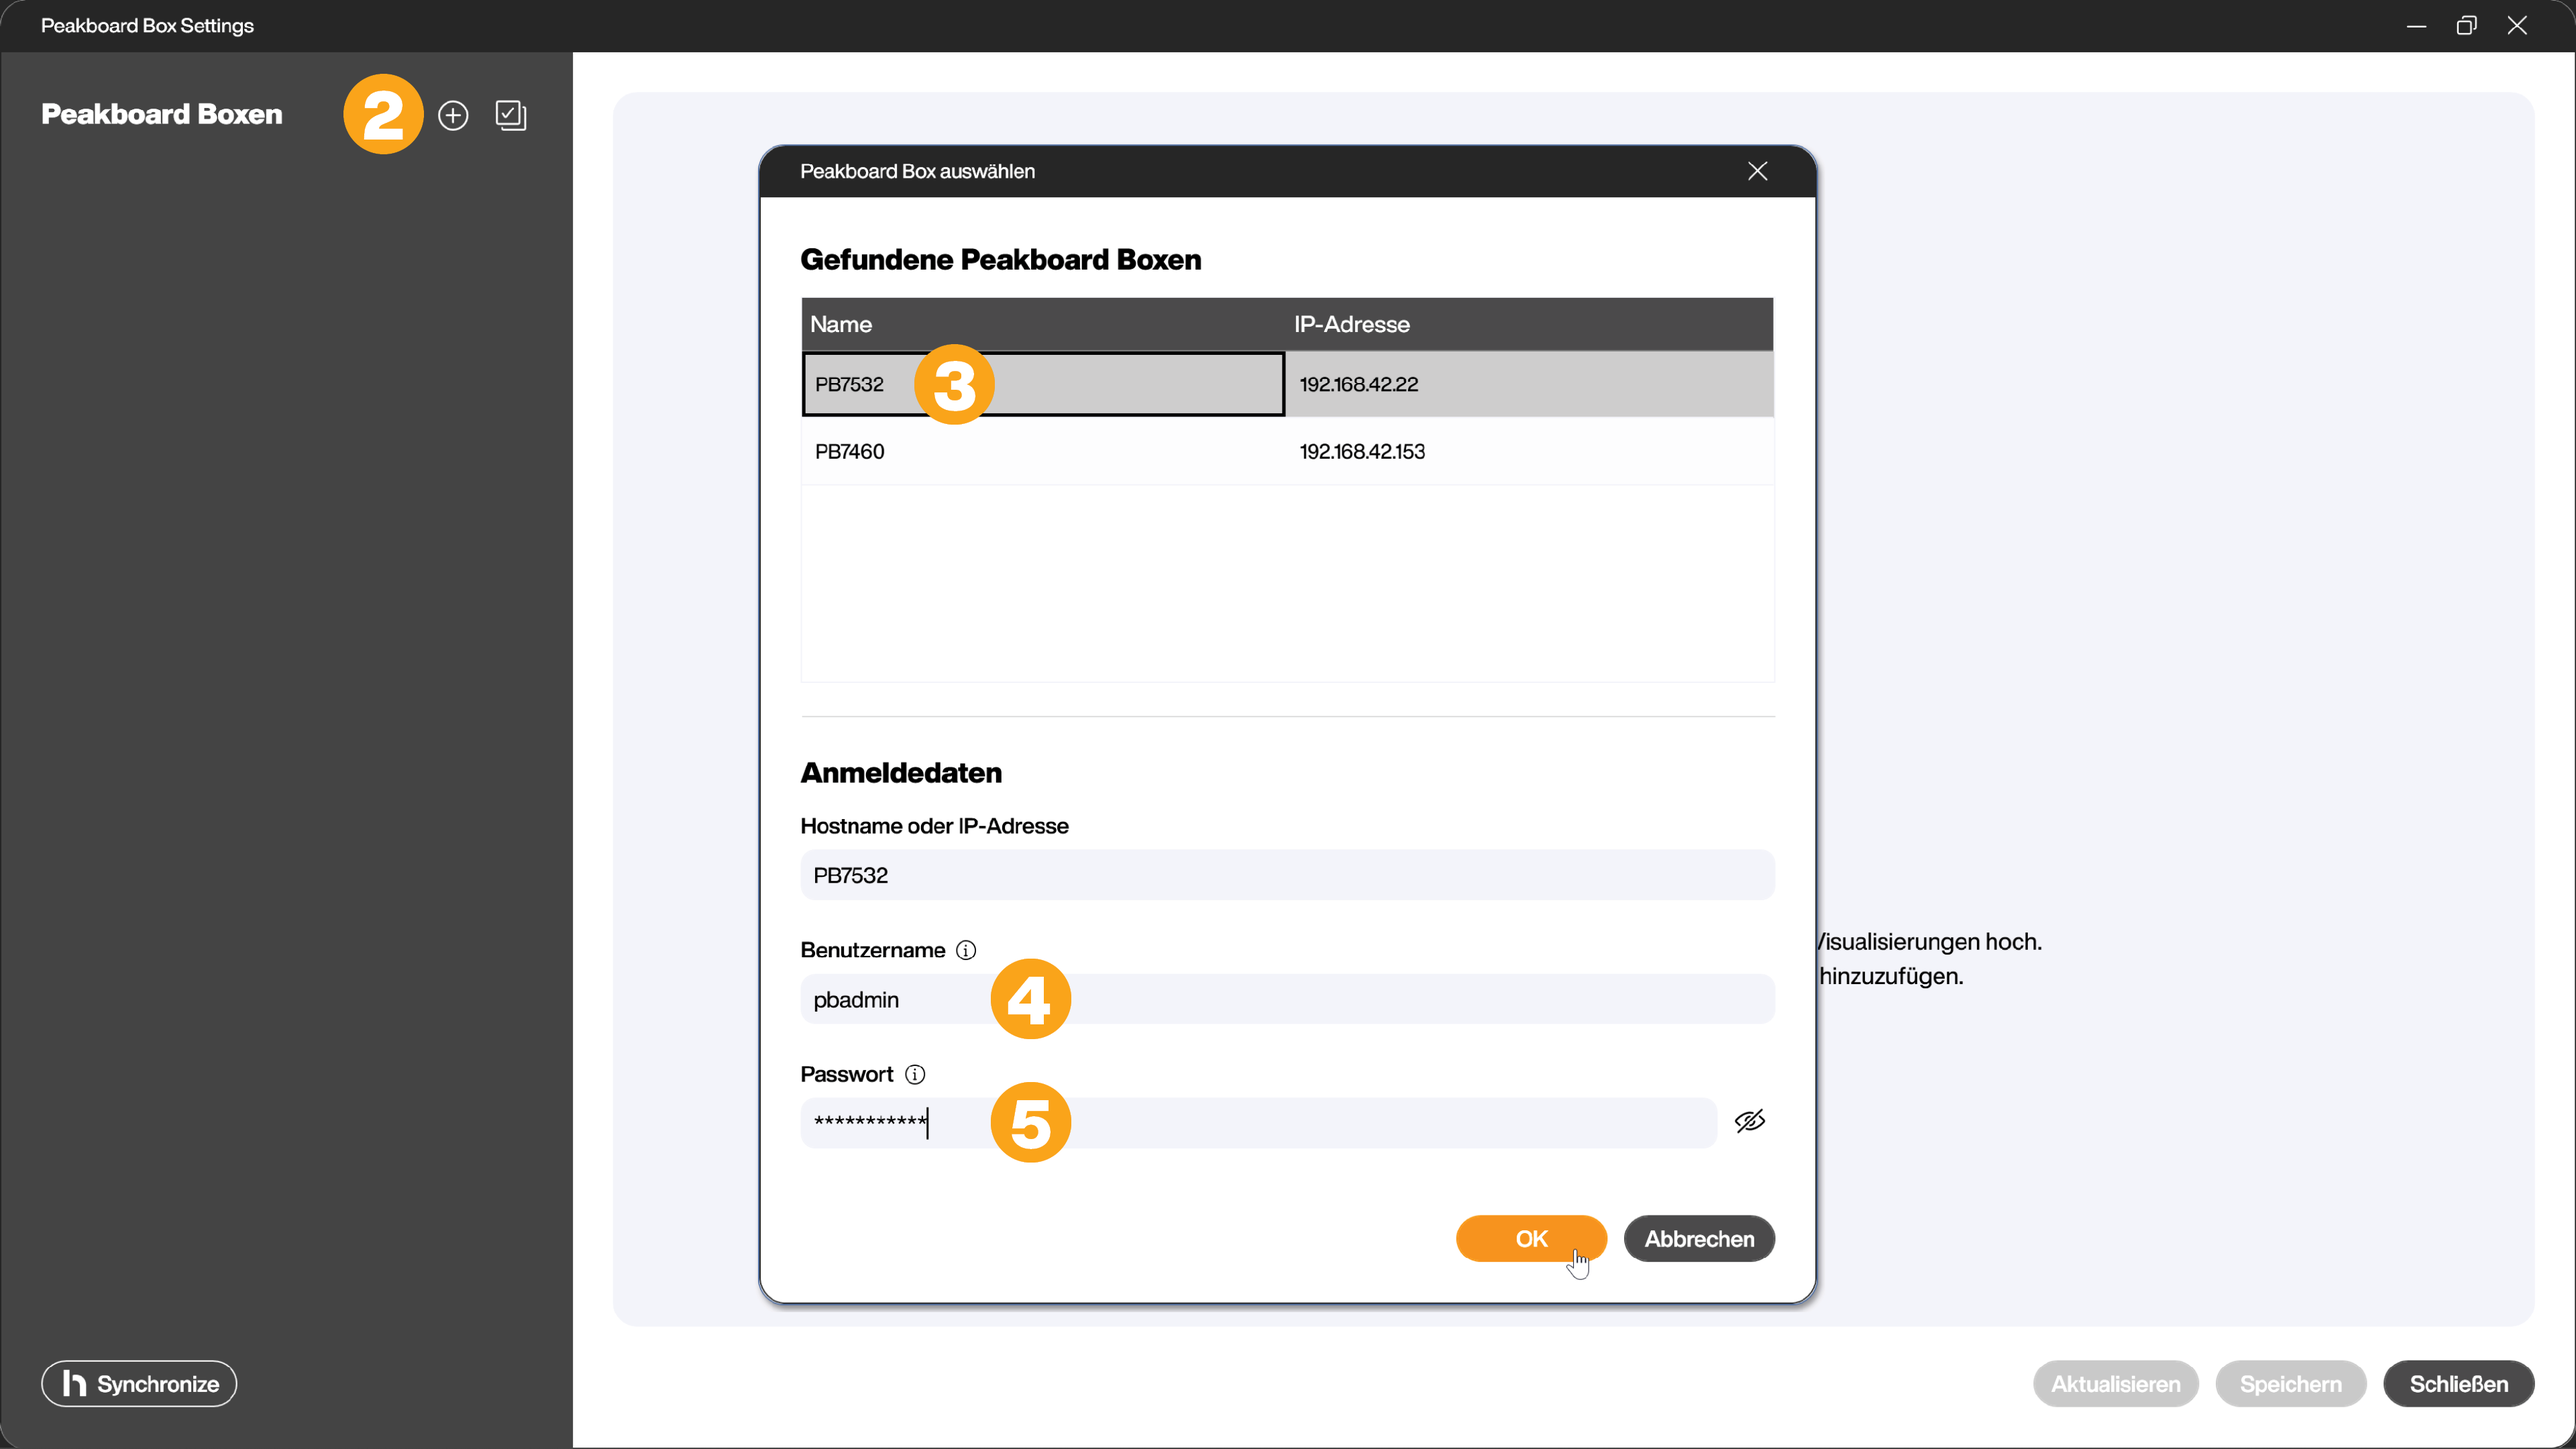
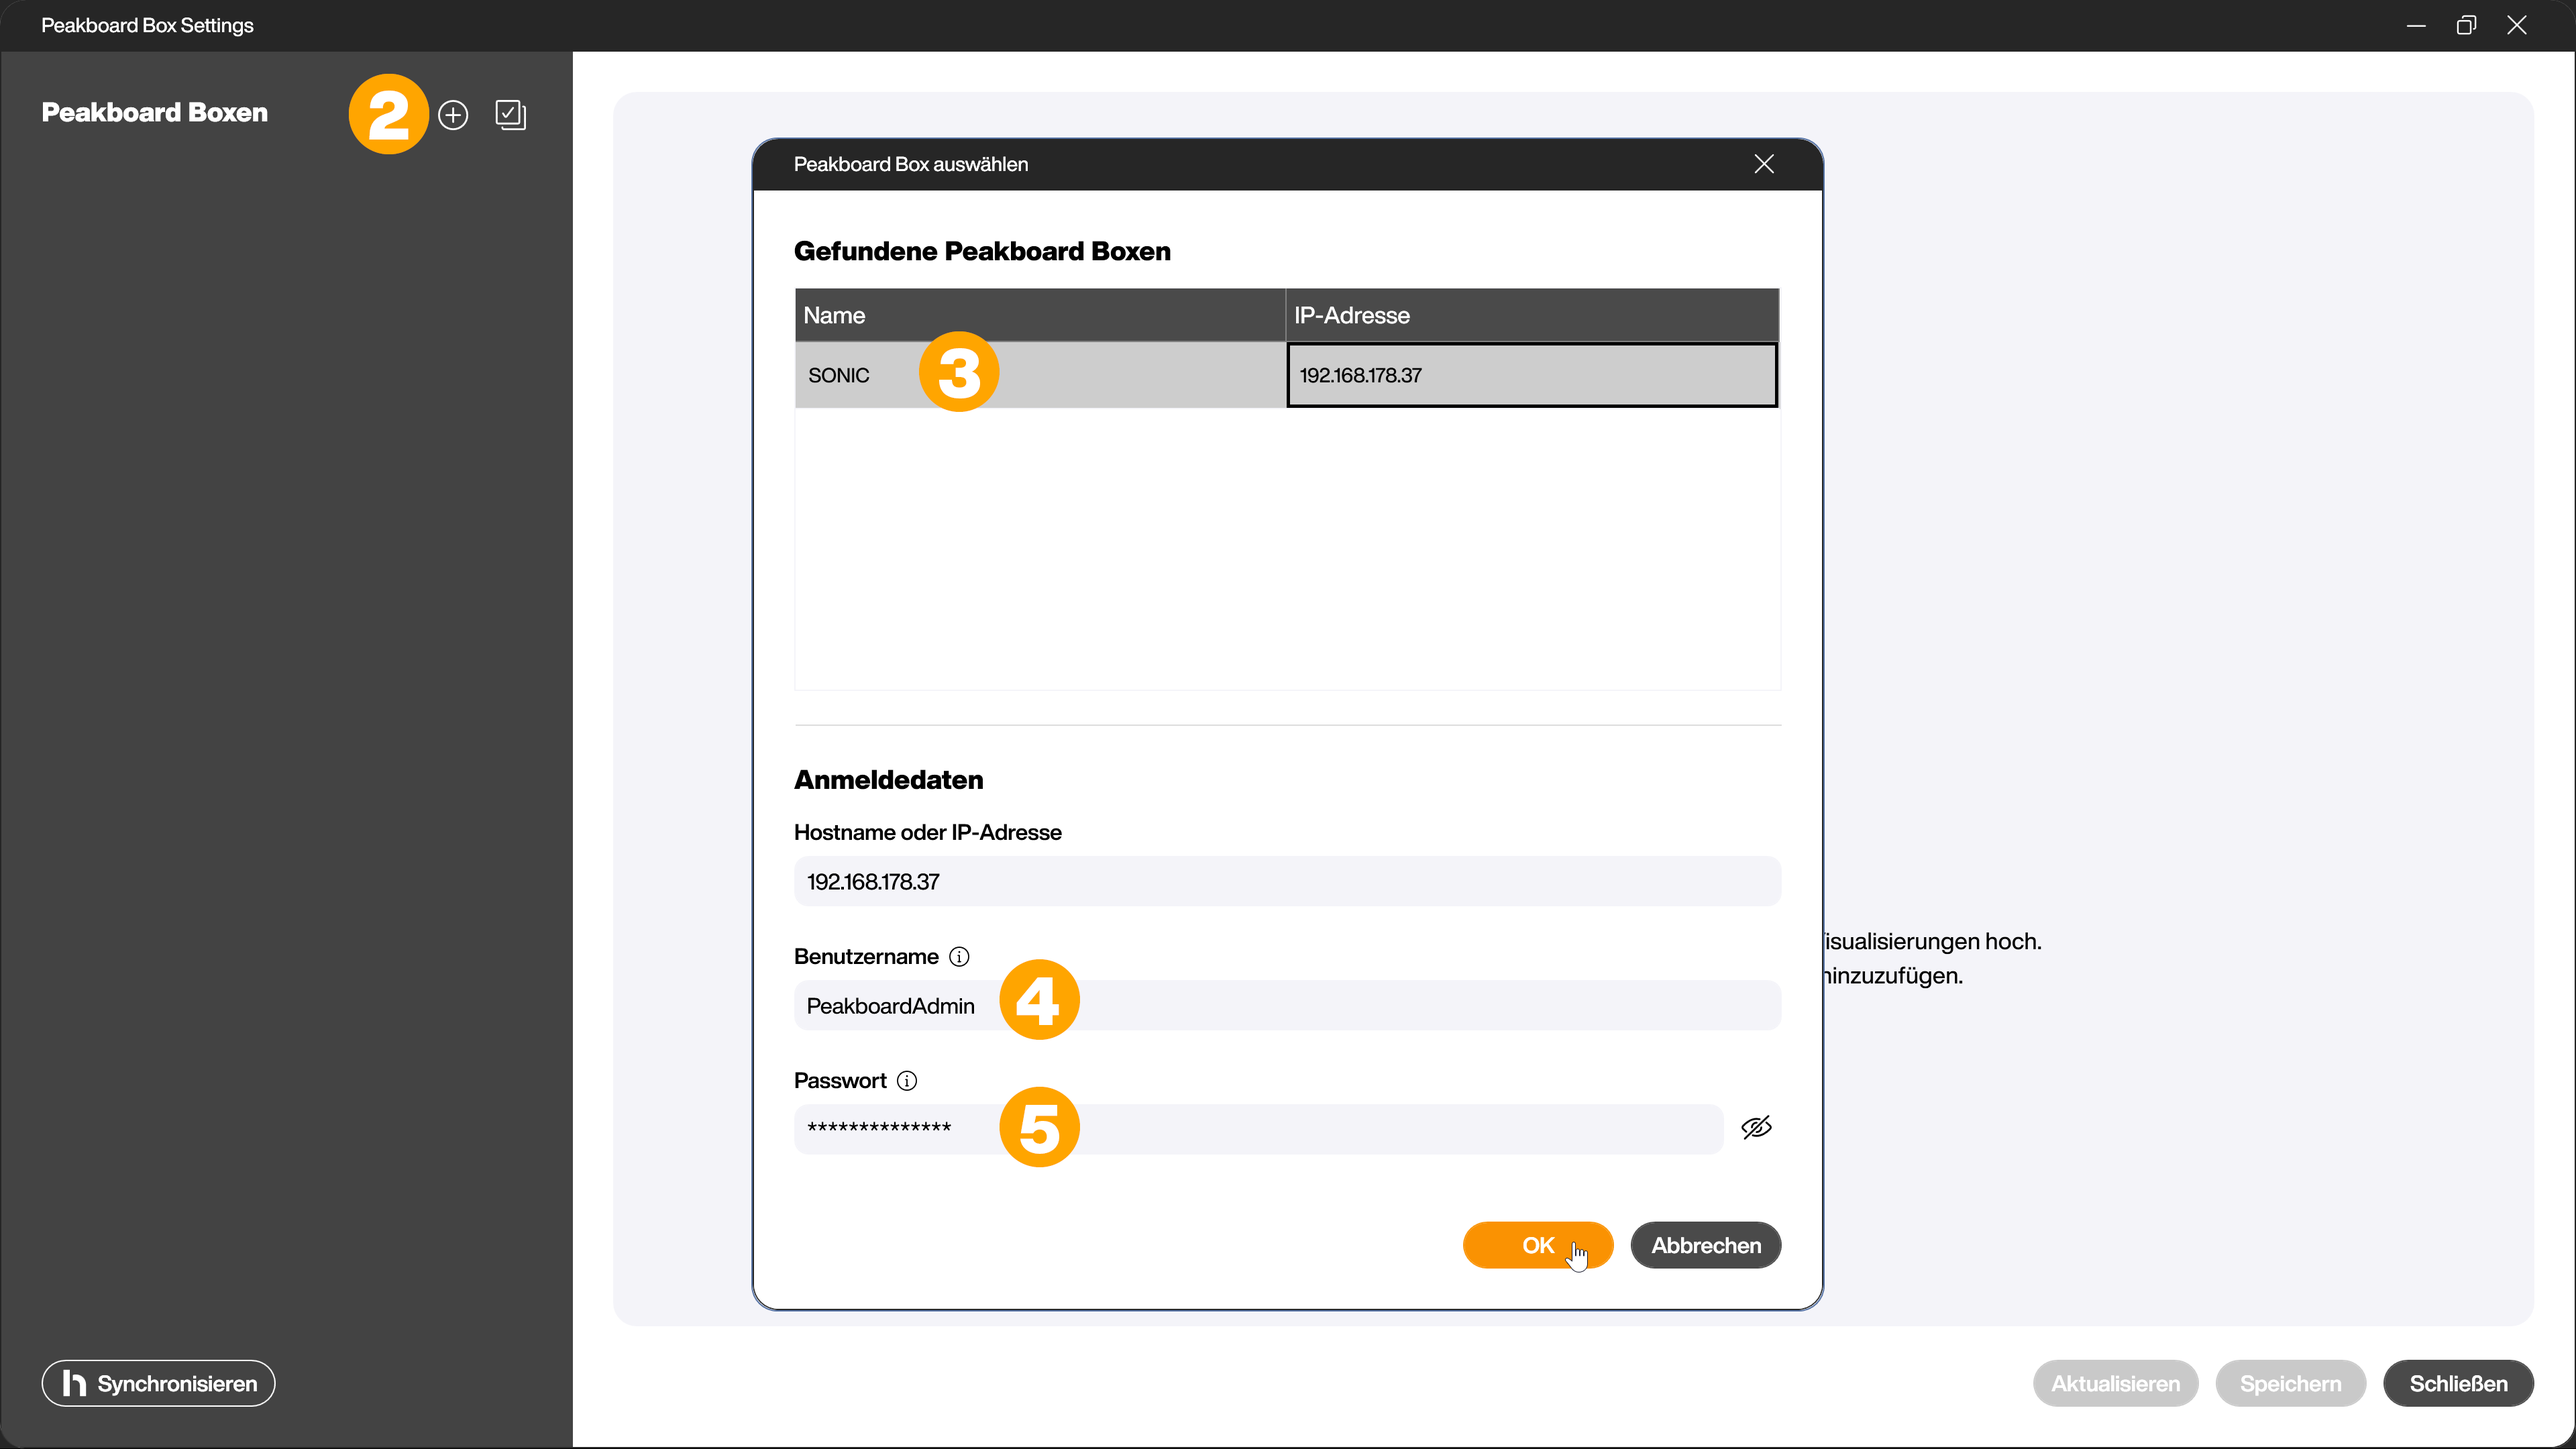
Added BYOD and fixed screenshot de/en

diff --git a/content/_administration/de-hinzufuegen.md b/content/_administration/de-hinzufuegen.md
@@ -1,8 +1,8 @@
 ---
 layout: article
-title: Hinzufügen einer Peakboard Box zum Peakboard Designer
-menu_title: Hinzufügen einer Peakboard Box zum Peakboard Designer
-description: Hinzufügen einer Peakboard Box zum Peakboard Designer
+title: Hinzufügen einer Peakboard Box oder Peakboard BYOD zum Peakboard Designer
+menu_title: Hinzufügen einer Peakboard Box oder Peakboard BYOD zum Peakboard Designer
+description: Hinzufügen einer Peakboard Box oder Peakboard BYOD zum Peakboard Designer
 lang: de
 weight: 700
 ref: admin-700
@@ -13,21 +13,21 @@ redirect_from:
 
 ---
 
-Um eine Peakboard Box zum Peakboard Designer hinzuzufügen, klicke in der Menüleiste auf den Peakboard Box-Button (1). Daraufhin öffnen sich die Peakboard Box Settings.
+Um eine Peakboard Box oder Peakboard BYOD zum Peakboard Designer hinzuzufügen, klicke in der Menüleiste auf den Peakboard Box-Button (1). Daraufhin öffnen sich die Peakboard Box Einstellungen.
 
 ![Peakboard Box Button](/assets/images/admin/add/de_add-box-01.png)
 
-Hier hast du mehrere Optionen um Peakboard Boxen hinzuzufügen.
+Hier hast du mehrere Optionen um Peakboard Boxen oder Peakboard BYOD hinzuzufügen.
 Klicke in den Peakboard Box Einstellungen auf den Hinzufügen-Button (2), um den Auswahldialog zu öffnen.
 
 ![Peakboard Box Auswahl](/assets/images/admin/add/de_add-box-02.png)
 
-In diesem Dialog werden alle im Netzwerk befindlichen Peakboard Boxen angezeigt.
-Markiere die gewünschte Peakboard Box durch einen Klick (3) und fülle die Felder Benutzername (4) und Passwort (5) aus.
-Nach dem Bestätigen mit OK wird deine Peakboard Box dem Peakboard Designer hinzugefügt.
+In diesem Dialog werden alle im Netzwerk befindlichen Peakboard Boxen und Peakboard BYOD angezeigt.
+Markiere die gewünschte Peakboard Box oder Peakboard BYOD durch einen Klick (3) und fülle die Felder Benutzername (4) und Passwort (5) aus.
+Nach dem Bestätigen mit OK wird deine Peakboard Box oder Peakboard BYOD dem Peakboard Designer hinzugefügt.
 
-Alternativ kannst du mit einem Klick auf den Peakboard Hub Synchronize-Button (6) deine Boxen vom Peakboard Hub hinzufügen.
+Alternativ kannst du mit einem Klick auf den Peakboard Hub Synchronize-Button (6) deine Peakboard Boxen und Peakboard BYOD vom Peakboard Hub hinzufügen.
 
 ![Peakboard Hub Synchronisation](/assets/images/admin/add/de_add-box-03.png)
 
-Voraussetzung hierfür ist ein eingerichteter [Peakboard Hub](/hub/de-hub_installation.html), auf dem bereits Boxen hinzugefügt wurden.
+Voraussetzung hierfür ist ein eingerichteter [Peakboard Hub](/hub/de-hub_installation.html), auf dem bereits Peakboard Boxen oder Peakboard BYOD hinzugefügt wurden.

diff --git a/content/_administration/en-adding.md b/content/_administration/en-adding.md
@@ -1,8 +1,8 @@
 ---
 layout: article
-title: Adding a Peakboard Box to the Peakboard Designer
-menu_title: Adding a Peakboard Box to the Peakboard Designer
-description: Adding a Peakboard Box to the Peakboard Designer
+title: Adding a Peakboard Box or Peakboard BYOD to the Peakboard Designer
+menu_title: Adding a Peakboard Box or Peakboard BYOD to the Peakboard Designer
+description: Adding a Peakboard Box or Peakboard BYOD to the Peakboard Designer
 lang: en
 weight: 700
 ref: admin-700
@@ -12,21 +12,21 @@ redirect_from:
   - /administration/PB%202.x%20Box/en-adding.html
 ---
 
-To add a Peakboard Box to the Peakboard Designer, click on the Peakboard Box button (1) in the menu bar. This will open the Peakboard Box settings.
+To add a Peakboard Box or Peakboard BYOD to the Peakboard Designer, click on the Peakboard Box button (1) in the menu bar. This will open the Peakboard Box settings.
 
 ![Peakboard Box button](/assets/images/admin/add/en_add-box-01.png)
 
-Here you have several options to add Peakboard Boxes.
+Here you have several options to add Peakboard Boxes or Peakboard BYOD.
 Click on the add button (2) in the Peakboard Box Settings to open the selection dialog.
 
 ![Peakboard Box selection](/assets/images/admin/add/en_add-box-02.png)
 
-In this dialog all Peakboard Boxes in the network are displayed.
-Simply mark the desired Peakboard Box by clicking on it (3) and fill in the fields username (4) and password (5).
-After confirming with OK your Peakboard Box will be added to the Peakboard Designer.
+In this dialog all Peakboard Boxes or Peakboard BYOD in the network are displayed.
+Simply mark the desired Peakboard Box or Peakboard BYOD by clicking on it (3) and fill in the fields username (4) and password (5).
+After confirming with OK your Peakboard Box or Peakboard BYOD will be added to the Peakboard Designer.
 
-Alternatively, you can add your boxes from the Peakboard Hub by clicking on the Peakboard Hub Synchronize button (6).
+Alternatively, you can add your Peakboard Boxes or Peakboard BYOD from the Peakboard Hub by clicking on the Peakboard Hub Synchronize button (6).
 
 ![Peakboard Hub synchronization](/assets/images/admin/add/en_add-box-03.png)
 
-This requires an installed [Peakboard Hub](/hub/en-hub_installation.html) where boxes have already been added.
+This requires an installed [Peakboard Hub](/hub/en-hub_installation.html) where Peakboard Boxes or Peakboard BYOD have already been added.
